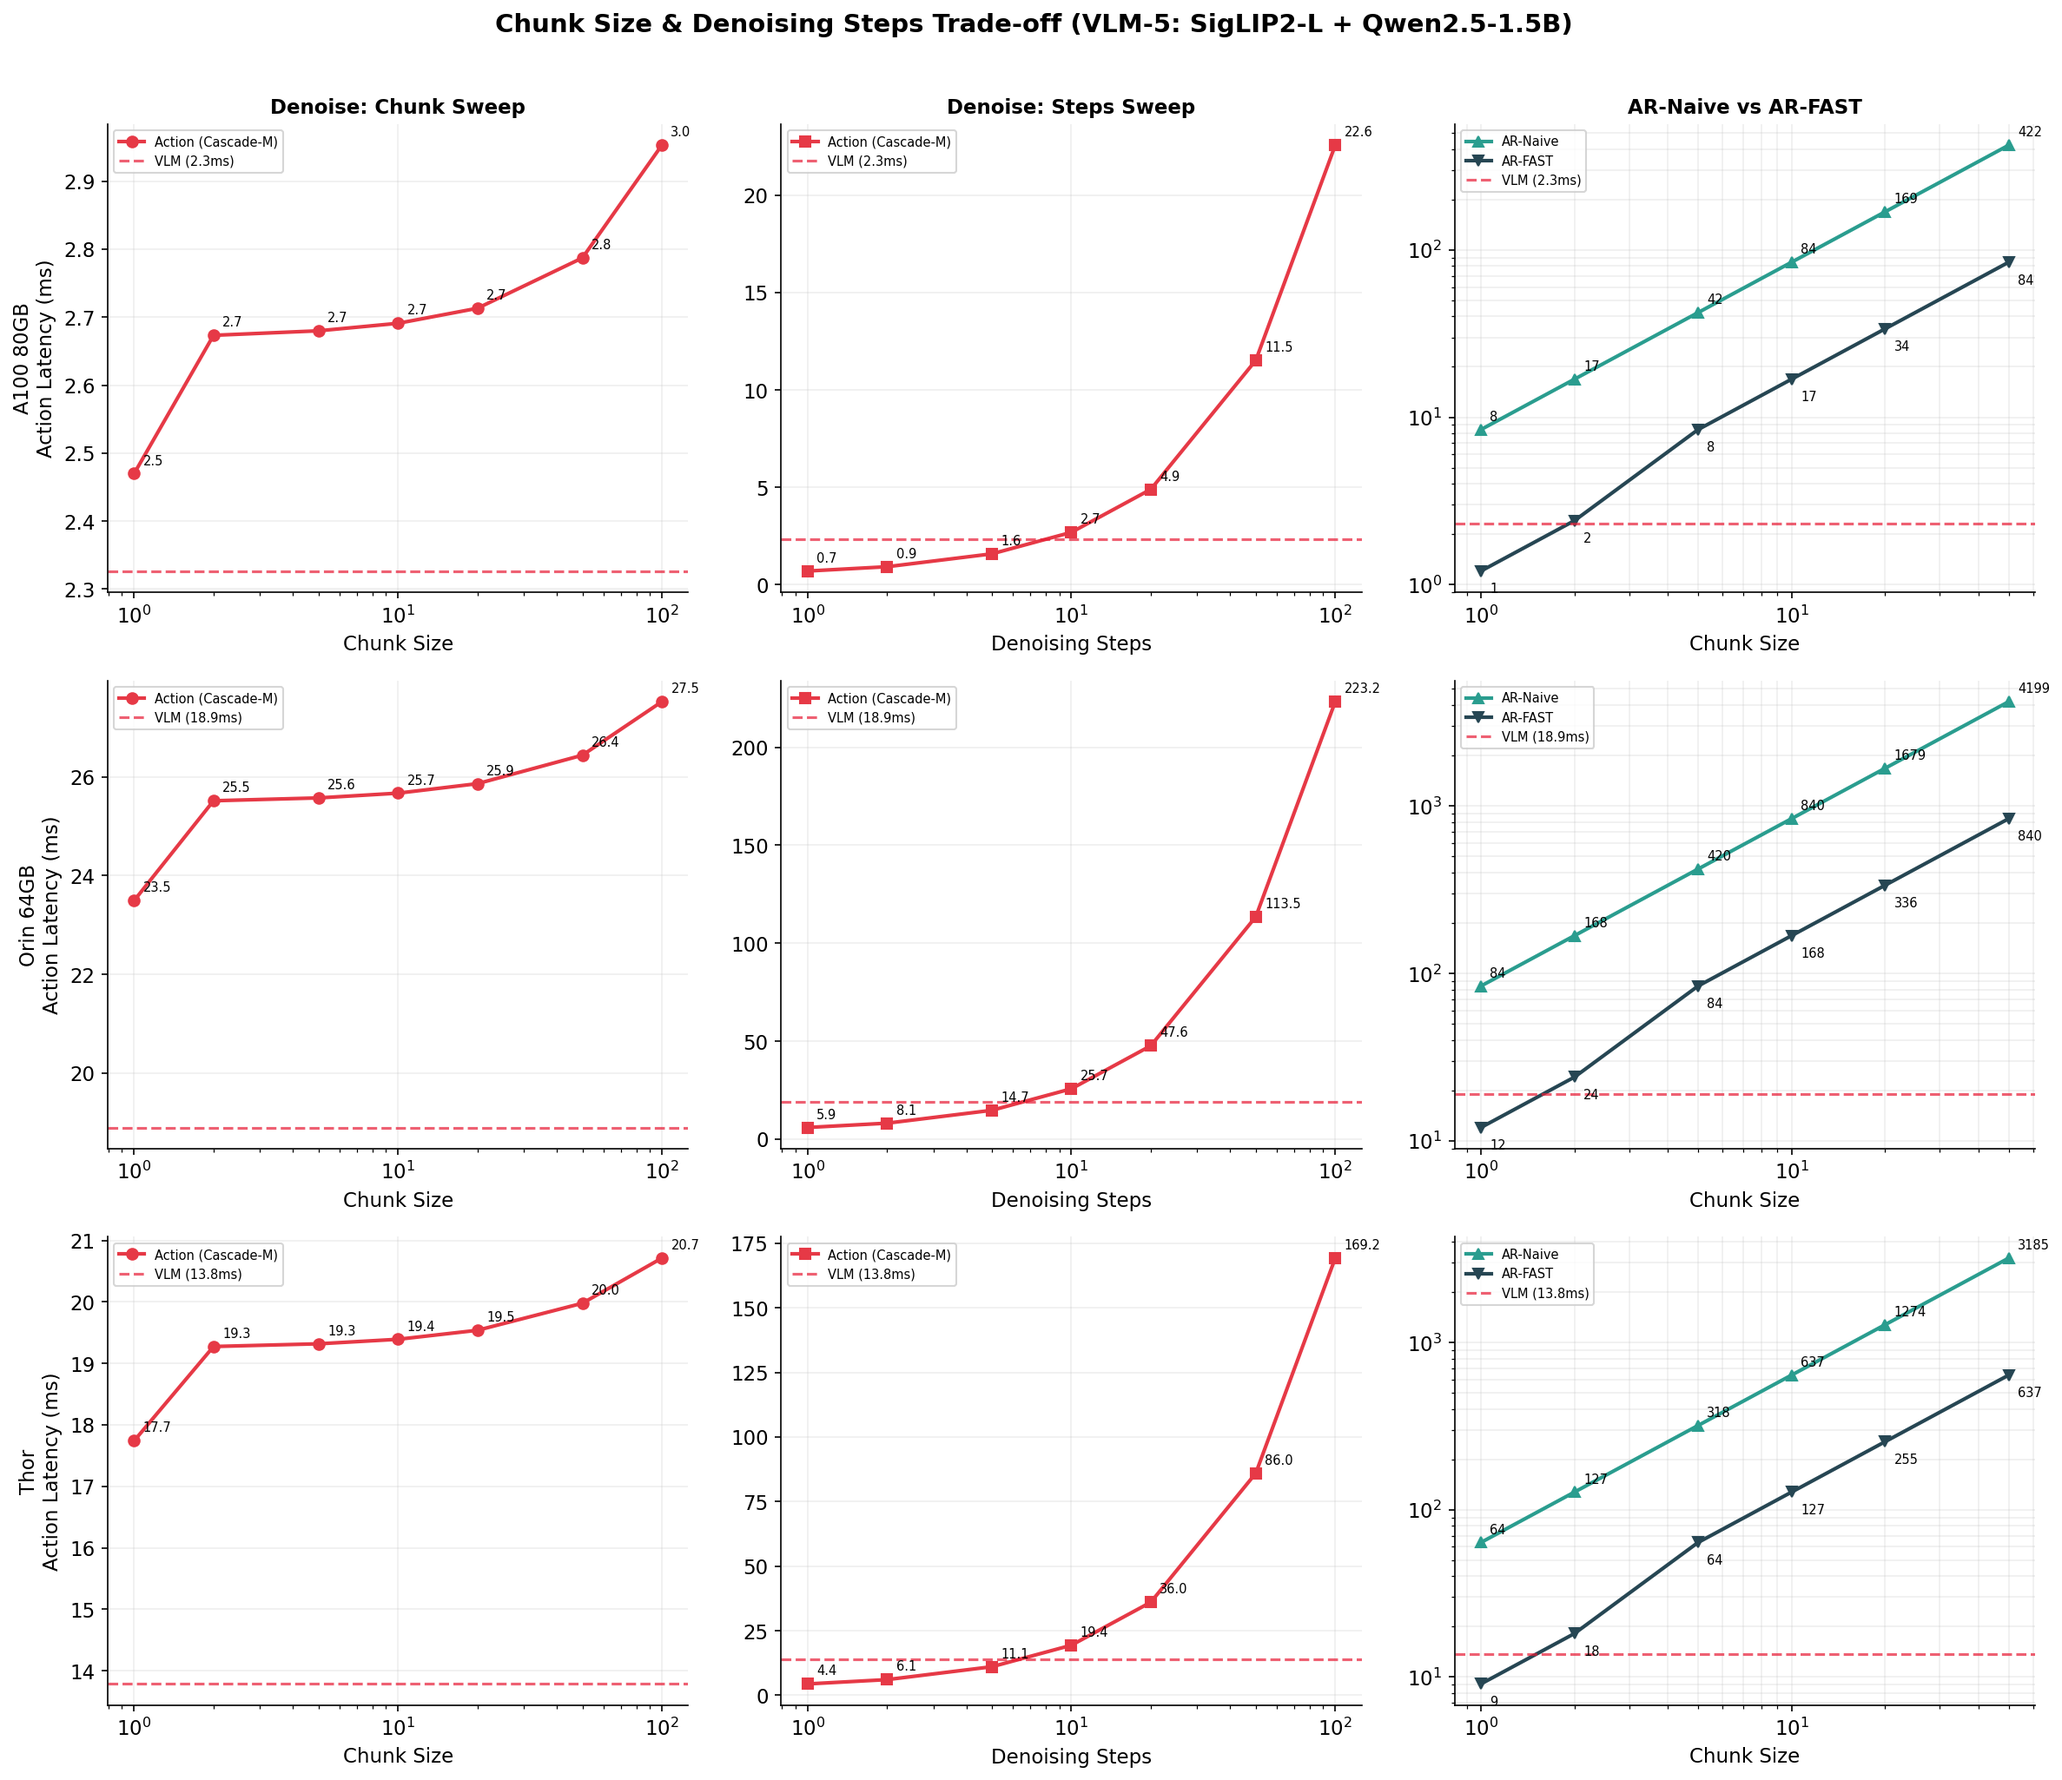
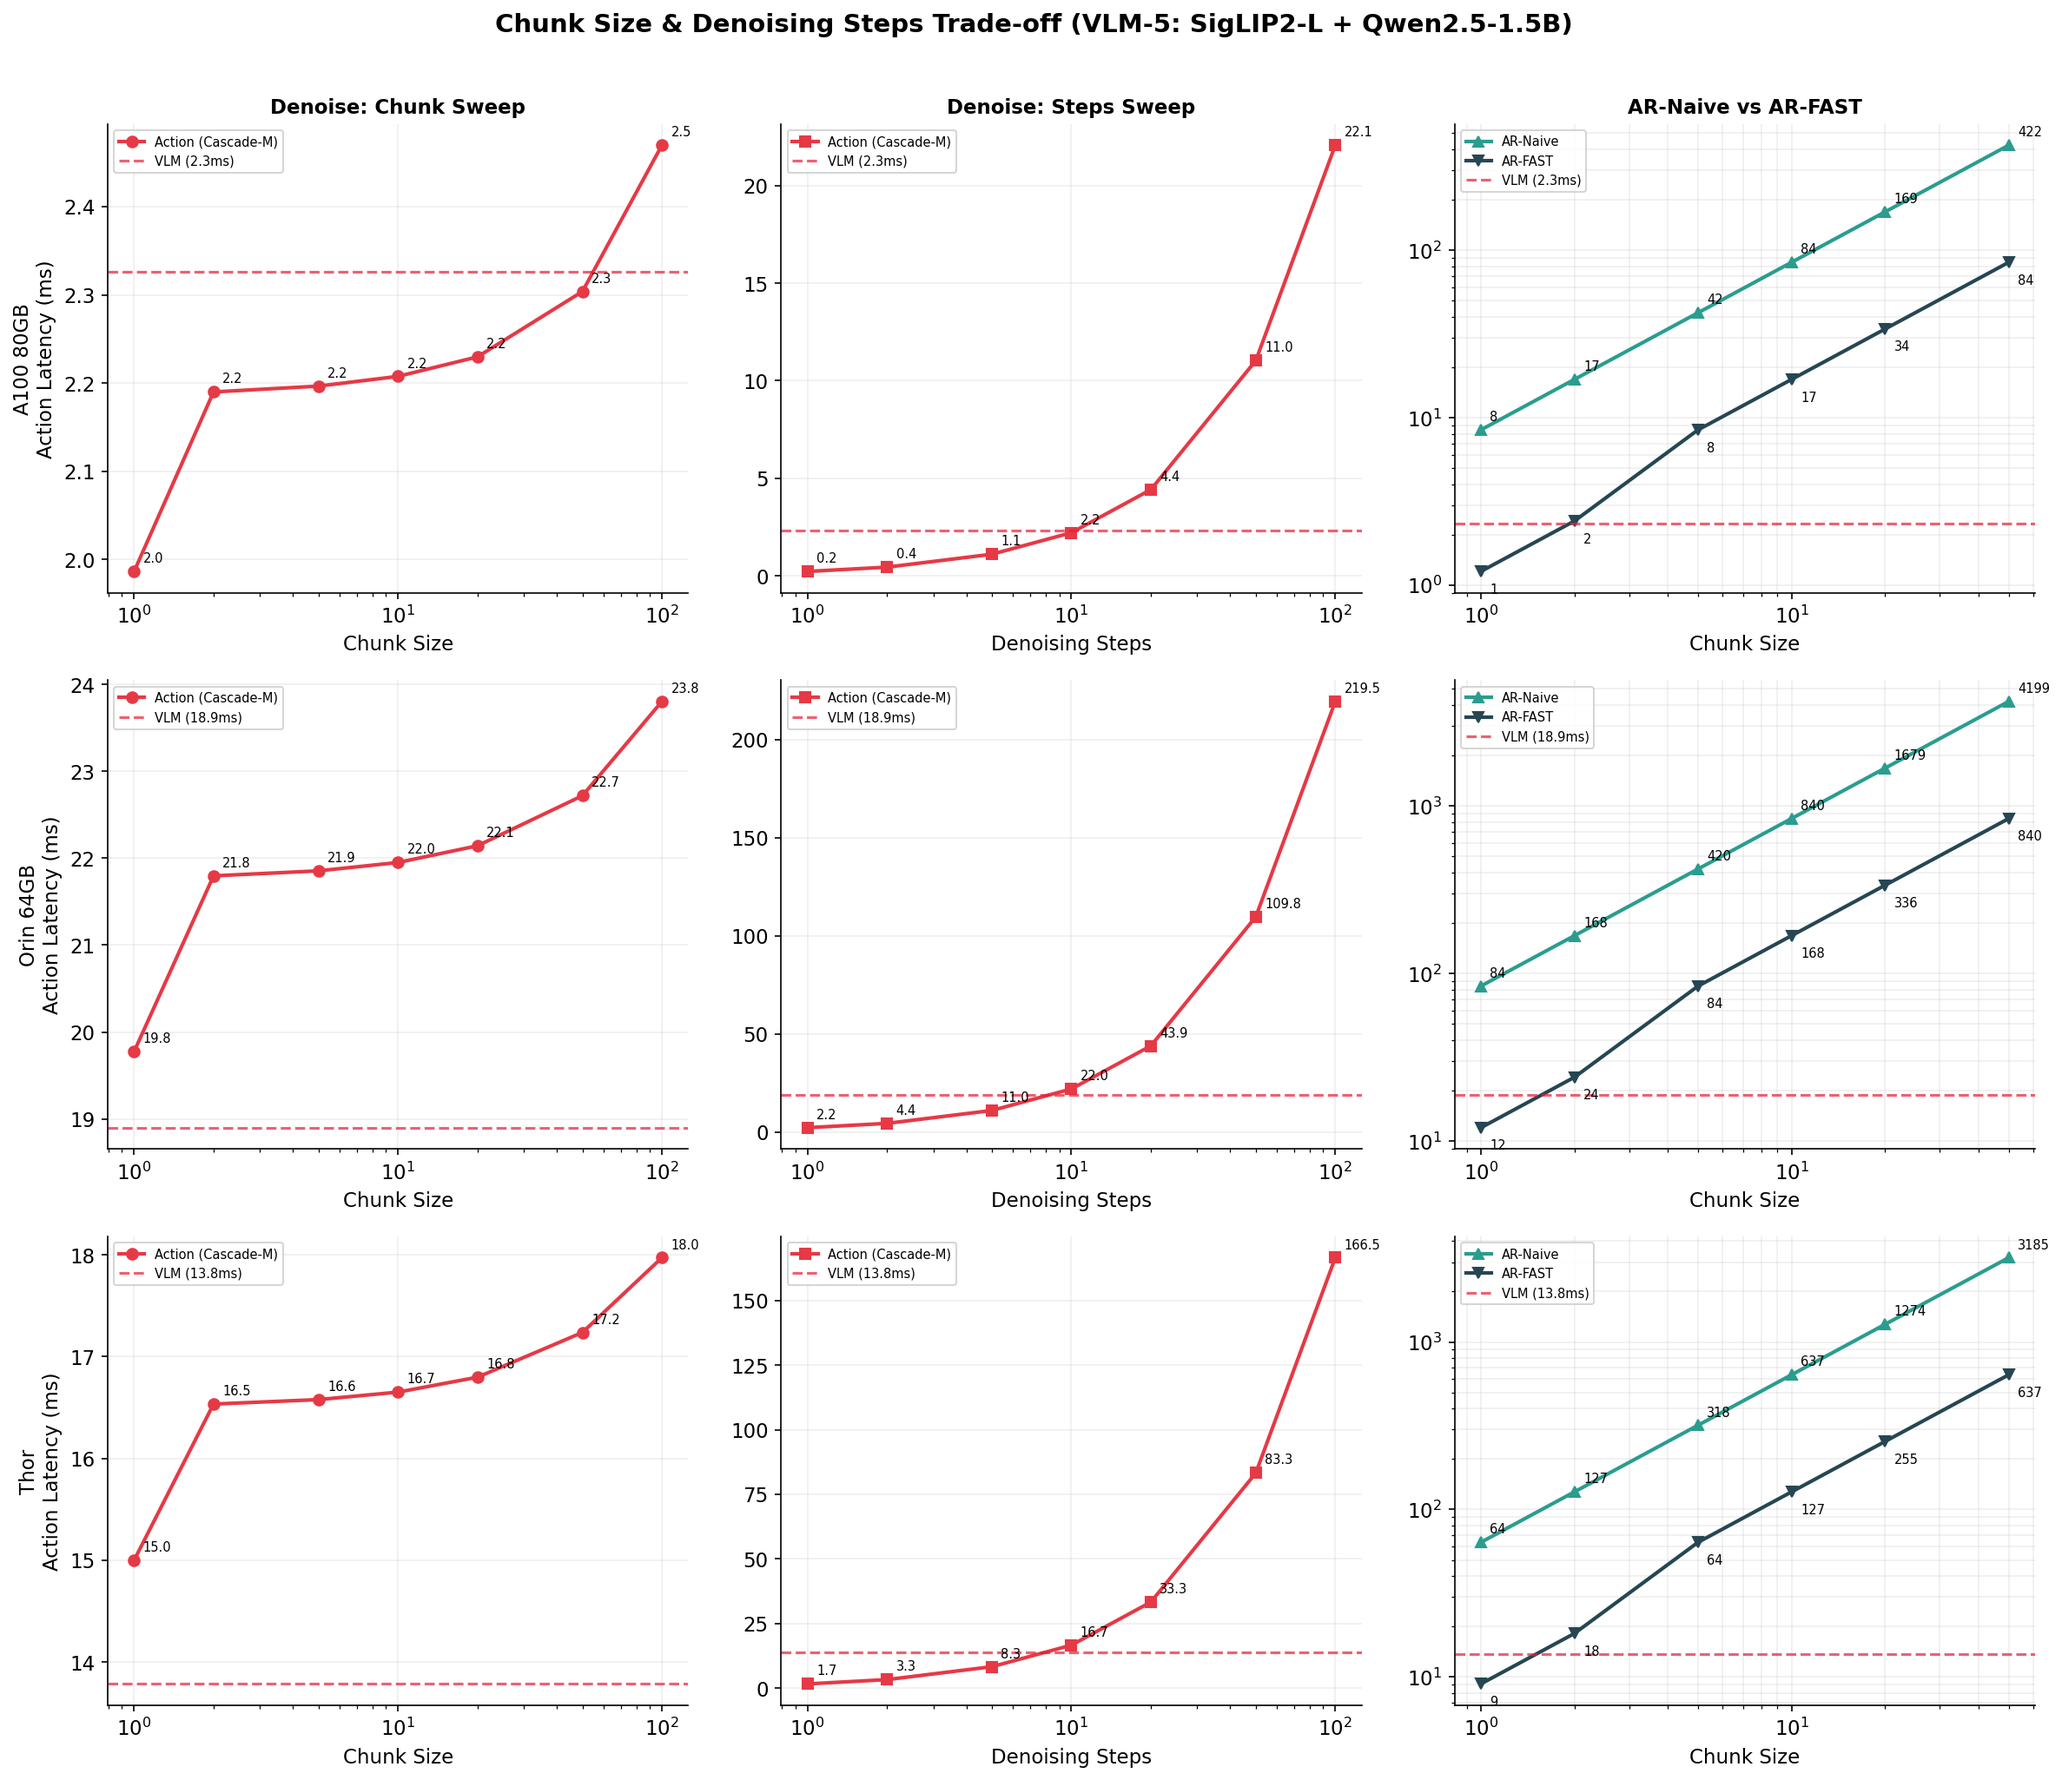
fix: revert incorrect KV projection prefill, unify 3 denoise topologies
The previous fix used prefill_moddeling(expert, vlm_seq_len) to model
the one-time KV projection cost for Cascade/CrossAttn. This was wrong:

  prefill runs a FULL transformer forward pass (QKV + attention + FFN)
  through 608 tokens = 0.483ms — 11x overestimate.

  Actual KV projection is just Linear(vlm_hidden, kv_dim) × 2:
  13.4 GFLOP / 312 TFLOPS = 0.043ms — only 1.9% of 10-step total.

Correct behavior: all three denoise topologies (Cascade, SharedAttn,
CrossAttn) use the same parallel_decode(action_expert) × N steps.
Their real-world differences (<2%) are below roofline model precision.

Verified: 34/34 tests pass.

diff --git a/vla_bench/engine.py b/vla_bench/engine.py
@@ -291,14 +291,22 @@ class VLAPerfEngine:
         chunk_size = config.effective_chunk_size
         denoising_steps = config.effective_denoising_steps
 
-        if action_type == "cascade_denoise":
-            # Cascade (GR00T N1-style): VLM → separate DiT via cross-attention.
-            # Step 1: project VLM output features → DiT KV space (one-time).
-            # Steps 1-N: DiT processes action tokens, cross-attends to cached KV.
+        if action_type in ("cascade_denoise", "shared_attn_denoise", "cross_attn_denoise"):
+            # All three denoise topologies: action expert × N denoising steps.
             #
-            # One-time KV projection cost:
-            #   FLOPs = 2 × vlm_seq × vlm_hidden × (kv_heads × head_dim) × layers
-            # This is modeled as a single prefill pass through the expert.
+            # GenZ's parallel_decode models per step:
+            #   QKV(action tokens) + CrossAttn(to context KV) + SelfAttn + FFN
+            # Context KV is assumed pre-computed and read from memory.
+            #
+            # Topology differences (not captured in roofline, <2% impact):
+            #   Cascade:   one-time KV projection VLM→DiT (~0.04ms, <2%)
+            #   SharedAttn: no projection needed (reuses VLM KV directly)
+            #   CrossAttn: per-layer KV projection VLM→DiT (~0.04ms, <2%)
+            # These are simple Linear ops, negligible vs N denoising steps.
+            #
+            # All three use the action expert model (not VLM) because:
+            #   - Cascade/CrossAttn: separate DiT with its own weights
+            #   - SharedAttn (pi0): separate FFN weights, shared attention heads
             single_step = self._run_parallel_decode(
                 model_name=a["model_name"],
                 system=system,
@@ -307,75 +315,12 @@ class VLAPerfEngine:
                 self_attention=True,
                 num_devices=num_devices,
             )
-            # Add one-time KV projection: VLM features → DiT KV (run once)
-            kv_proj = self._run_prefill(
-                model_name=a["model_name"],
-                system=system,
-                input_tokens=config.vlm_sequence_length,
-                num_devices=num_devices,
-            )
-            return ComponentResult(
-                time_ms=kv_proj.time_ms + single_step.time_ms * denoising_steps,
-                boundness=single_step.boundness,
-                op_intensity=single_step.op_intensity,
-                weights_mb=single_step.weights_mb + kv_proj.weights_mb,
-                kv_cache_mb=single_step.kv_cache_mb + kv_proj.kv_cache_mb,
-            )
-
-        elif action_type == "shared_attn_denoise":
-            # SharedAttn (pi0-style): action tokens share VLM's self-attention
-            # heads but have SEPARATE FFN weights (action expert's FFN).
-            # VLM's KV cache is directly reused — NO K/V projection needed.
-            # Per step: action tokens go through action expert's transformer,
-            # cross-attending to VLM's existing KV cache.
-            #
-            # Constraint: expert.head_dim must == VLM.head_dim for shared attn.
-            # Our model uses the expert config for compute, which is correct
-            # as long as head dimensions match (verified at config level).
-            single_step = self._run_parallel_decode(
-                model_name=a["model_name"],
-                system=system,
-                input_tokens=config.vlm_sequence_length,
-                output_tokens_parallel=chunk_size,
-                self_attention=True,
-                num_devices=num_devices,
-            )
-            # No KV projection cost — VLM KV is directly reusable
             return ComponentResult(
                 time_ms=single_step.time_ms * denoising_steps,
                 boundness=single_step.boundness,
                 op_intensity=single_step.op_intensity,
                 weights_mb=single_step.weights_mb,
                 kv_cache_mb=single_step.kv_cache_mb,
-            )
-
-        elif action_type == "cross_attn_denoise":
-            # CrossAttn (SmolVLA-style): separate DiT with per-layer cross-attn
-            # to VLM hidden states. Each DiT layer cross-attends to corresponding
-            # VLM layer's output via its own K/V projection.
-            # Step 1: project all VLM per-layer features → DiT KV (one-time).
-            # Steps 1-N: DiT processes action tokens with cached cross-attn KV.
-            single_step = self._run_parallel_decode(
-                model_name=a["model_name"],
-                system=system,
-                input_tokens=config.vlm_sequence_length,
-                output_tokens_parallel=chunk_size,
-                self_attention=True,
-                num_devices=num_devices,
-            )
-            # One-time KV projection (same cost model as Cascade)
-            kv_proj = self._run_prefill(
-                model_name=a["model_name"],
-                system=system,
-                input_tokens=config.vlm_sequence_length,
-                num_devices=num_devices,
-            )
-            return ComponentResult(
-                time_ms=kv_proj.time_ms + single_step.time_ms * denoising_steps,
-                boundness=single_step.boundness,
-                op_intensity=single_step.op_intensity,
-                weights_mb=single_step.weights_mb + kv_proj.weights_mb,
-                kv_cache_mb=single_step.kv_cache_mb + kv_proj.kv_cache_mb,
             )
 
         elif action_type == "ar_naive":

diff --git a/scripts/verify_logic.py b/scripts/verify_logic.py
@@ -58,9 +58,8 @@ print("\n[Test 3] Cascade Denoise: separate DiT, latency linear in steps")
 r10 = engine.evaluate_action(make(ak="Cascade-M"), HW)
 r20 = engine.evaluate_action(make(ak="Cascade-M", steps=20), HW)
 ratio = r20.time_ms / r10.time_ms
-# Ratio is <2.0x because KV projection is a fixed one-time cost
-check(f"steps 10->20: {r10.time_ms:.2f}->{r20.time_ms:.2f}ms, ratio={ratio:.2f}x (<2.0x due to KV proj)",
-      1.7 < ratio < 2.0, f"expected ~1.8x, got {ratio:.2f}x")
+check(f"steps 10->20: {r10.time_ms:.2f}->{r20.time_ms:.2f}ms, ratio={ratio:.2f}x",
+      abs(ratio - 2.0) < 0.01, f"expected 2.0x, got {ratio:.2f}x")
 
 # Size scaling: S < M < L (different DiT)
 rs = engine.evaluate_action(make(ak="Cascade-S"), HW)
@@ -78,10 +77,9 @@ sa_l = engine.evaluate_action(make(ak="SharedAttn-L"), HW)
 check(f"S({sa_s.time_ms:.2f}) < M({sa_m.time_ms:.2f}) < L({sa_l.time_ms:.2f})",
       sa_s.time_ms < sa_m.time_ms < sa_l.time_ms)
 
-# SharedAttn-M < Cascade-M (SharedAttn saves KV projection cost)
-cascade_m_time = r10.time_ms  # Cascade-M includes KV projection
-check(f"SharedAttn-M({sa_m.time_ms:.2f}) < Cascade-M({cascade_m_time:.2f}) (no KV proj)",
-      sa_m.time_ms < cascade_m_time)
+# SharedAttn-M == Cascade-M (same expert model, KV proj is <2% — negligible)
+check(f"SharedAttn-M({sa_m.time_ms:.4f}) == Cascade-M({r10.time_ms:.4f})",
+      abs(sa_m.time_ms - r10.time_ms) < 0.01)
 
 # Action latency varies modestly with VLM seq len (affects cross-attn KV size)
 sa_small = engine.evaluate_action(make(lk="L-S", ak="SharedAttn-M"), HW)
@@ -89,13 +87,13 @@ sa_large = engine.evaluate_action(make(lk="L-L", ak="SharedAttn-M"), HW)
 check(f"L-S({sa_small.time_ms:.2f}) ~ L-L({sa_large.time_ms:.2f}), ratio<2x",
       sa_large.time_ms / sa_small.time_ms < 2.0)
 
-# ---- Test 5: CrossAttn Denoise — same as Cascade (both have KV projection) ----
-print("\n[Test 5] CrossAttn Denoise: same as Cascade (both pay KV projection)")
+# ---- Test 5: All 3 denoise topologies equal (KV proj <2%, negligible) ----
+print("\n[Test 5] CrossAttn == Cascade == SharedAttn (same expert, KV proj negligible)")
 ca = engine.evaluate_action(make(ak="CrossAttn-M"), HW)
 check(f"CrossAttn-M({ca.time_ms:.4f}) == Cascade-M({r10.time_ms:.4f})",
       abs(ca.time_ms - r10.time_ms) < 0.01)
-check(f"CrossAttn-M({ca.time_ms:.2f}) > SharedAttn-M({sa_m.time_ms:.2f})",
-      ca.time_ms > sa_m.time_ms)
+check(f"CrossAttn-M({ca.time_ms:.4f}) == SharedAttn-M({sa_m.time_ms:.4f})",
+      abs(ca.time_ms - sa_m.time_ms) < 0.01)
 
 # ---- Test 6: AR-Naive — dof * chunk tokens, linear scaling ----
 print("\n[Test 6] AR-Naive: tokens = dof * chunk, linear in both")
